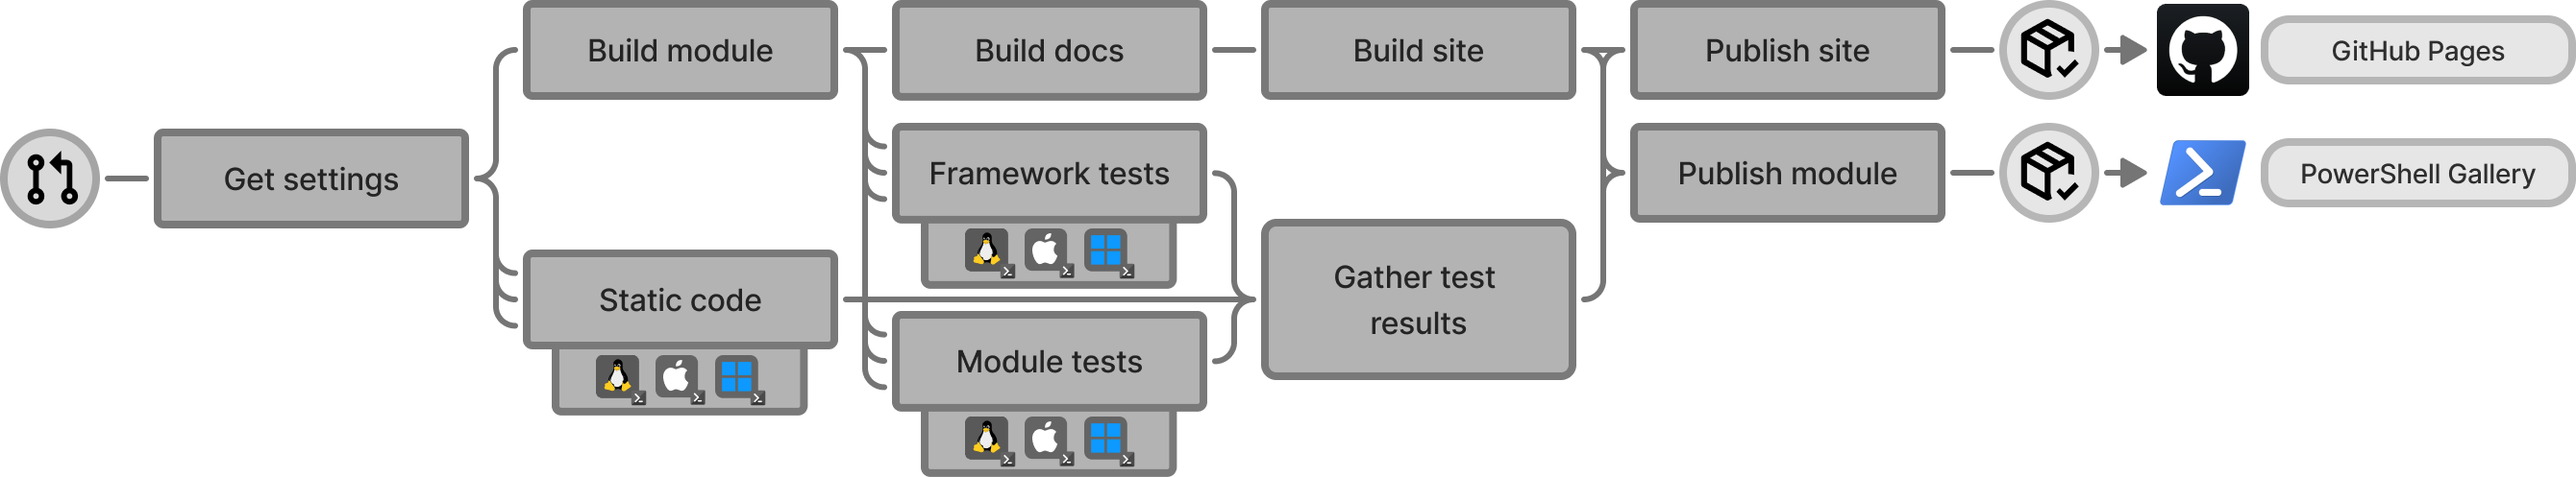
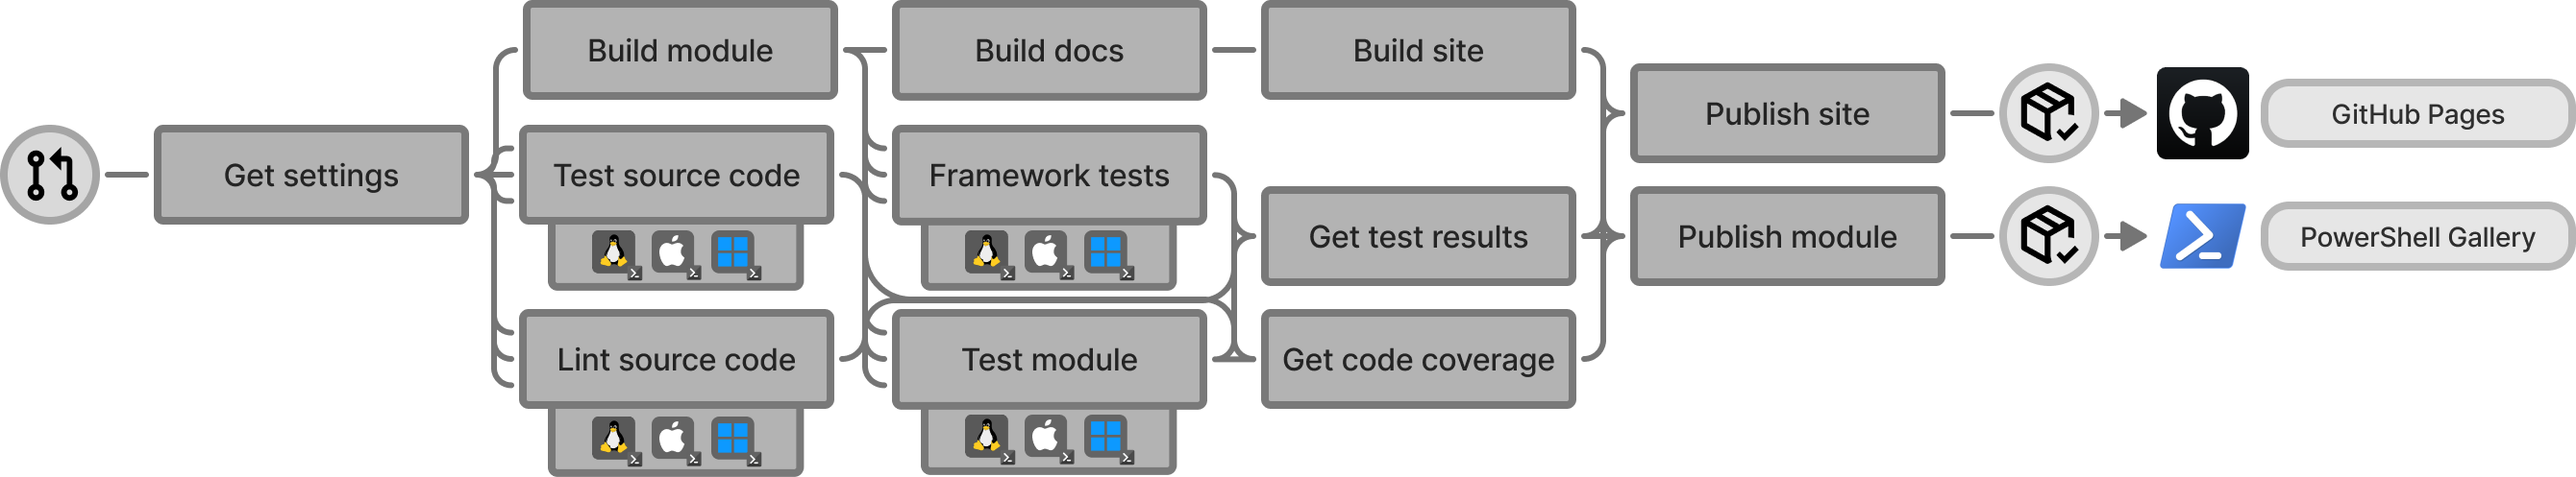
🔧 [Docs]: Update README for clarity and enhance workflow descriptions

diff --git a/README.md b/README.md
@@ -20,28 +20,39 @@ Depending on the labels in the pull requests, the workflow will result in differ
 
 ![Process diagram](./media/Process-PSModule.png)
 
-- [Get-Settings](./.github/workflows/Get-Settings.yml)
+- [Get settings](./.github/workflows/Get-Settings.yml)
   - Reads the settings file from a file in the module repository to configure the workflow.
   - Gathers tests and creates test configuration based on the settings and the tests available in the module repository.
   - This includes the selection of what OSes to run the tests on.
-- [Build-Module](./.github/workflows/Build-Module.yml)
+- [Build module](./.github/workflows/Build-Module.yml)
   - Compiles the module source code into a PowerShell module.
-- [Test-SourceCode](./.github/workflows/Test-SourceCode.yml)
-  - Tests and lints the source code in parallel (matrix) using [PSModule framework settings for style and standards for source code](https://github.com/PSModule/Test-PSModule?tab=readme-ov-file#sourcecode-tests) + [PSScriptAnalyzer rules](https://github.com/PSModule/Invoke-ScriptAnalyzer).
+- [Test source code](./.github/workflows/Test-SourceCode.yml)
+  - Tests the source code in parallel (matrix) using [PSModule framework settings for style and standards for source code](https://github.com/PSModule/Test-PSModule?tab=readme-ov-file#sourcecode-tests)
   - This produces a json based report that is used to later evaluate the results of the tests.
-- [Test-Module](./.github/workflows/Test-Module.yml)
+- [Lint source code](./.github/workflows/Lint-SourceCode.yml)
+  - Lints the source code in parallel (matrix) using [PSScriptAnalyzer rules](https://github.com/PSModule/Invoke-ScriptAnalyzer).
+  - This produces a json based report that is used to later evaluate the results of the linter.
+- [Framework test](./.github/workflows/Test-Module.yml)
   - Tests and lints the module in parallel (matrix) using [PSModule framework settings for style and standards foor modules](https://github.com/PSModule/Test-PSModule?tab=readme-ov-file#module-tests) + [PSScriptAnalyzer rules](https://github.com/PSModule/Invoke-ScriptAnalyzer).
   - This produces a json based report that is used to later evaluate the results of the tests.
-- [Test-ModuleLocal](./.github/workflows/Test-ModuleLocal.yml)
+- [Test module](./.github/workflows/Test-ModuleLocal.yml)
   - Import and tests the module in parallel (matrix) using Pester tests from the module repository.
   - This produces a json based report that is used to later evaluate the results of the tests.
-- [Build-Docs](./.github/workflows/Build-Docs.yml)
-  - Generates documentation and lints the documentation using [SuperLinter](https://github.com/super-linter/super-linter).
-- [Build-Site](./.github/workflows/Build-Site.yml)
-  - Generates a static site using [MkDocs](https://www.mkdocs.org/).
-- [Test-PSModule](https://github.com/PSModule/Test-PSModule/) - Tests the compiled module. This runs on 4 different environments to check compatibility.
-  - PowerShell LTS on Windows, Ubuntu and macOS.
-- [Publish-PSModule](https://github.com/PSModule/Publish-PSModule/) - Publishes the module to the PowerShell Gallery, docs to GitHub Pages, and creates a release on the GitHub repository.
+- [Get test results](./.github/workflows/Get-TestResults.yml)
+  - Gathers the test results from the previous steps and creates a summary of the results.
+  - If any tests have failed, the workflow will fail here.
+- [Get code coverage](./.github/workflows/Get-CodeCoverage.yml)
+  - Gathers the code coverage from the previous steps and creates a summary of the results.
+  - If the code coverage is below the target, the workflow will fail here.
+- [Build docs](./.github/workflows/Build-Docs.yml)
+  - Generates documentation and lints the documentation using [super-linter](https://github.com/super-linter/super-linter).
+- [Build site](./.github/workflows/Build-Site.yml)
+  - Generates a static site using [Material for MkDocs](https://squidfunk.github.io/mkdocs-material/).
+- [Publish site](./.github/workflows/Publish-Site.yml)
+  - Publishes the static site with the module documentationto GitHub Pages.
+- [Publish module](./.github/workflows/Publish-Module.yml)
+    - Publishes the module to the PowerShell Gallery.
+    - Creates a release on the GitHub repository.
 
 To use the workflow, create a new file in the `.github/workflows` directory of the module repository and add the following content.
 <details>
@@ -76,6 +87,63 @@ jobs:
 
 ```
 </details>
+
+## Configuration
+
+The workflow is configured using a settings file in the module repository.
+The file can be a JSON, YML or PSD1 file. By default it will look for `.github/PSModule.yml`.
+
+The following settings are available in the settings file:
+Here's a Markdown-formatted table describing your PowerShell object structure clearly and concisely:
+
+| Name                                      | Type            | Description                                                    | Default                        |
+| ----------------------------------------- | --------------- | -------------------------------------------------------------- | ------------------------------ |
+| `Name`                                    | `String`        | Name identifier for the settings                               | `null`                         |
+| **Test**                                  | `Object`        | Settings related to testing                                    |                                |
+| `Test.Skip`                               | `Boolean`       | Skip all tests                                                 | `false`                        |
+| `Test.Linux.Skip`                         | `Boolean`       | Skip tests on Linux                                            | `false`                        |
+| `Test.MacOS.Skip`                         | `Boolean`       | Skip tests on macOS                                            | `false`                        |
+| `Test.Windows.Skip`                       | `Boolean`       | Skip tests on Windows                                          | `false`                        |
+| **Test.SourceCode**                       | `Object`        | Settings for source code tests                                 |                                |
+| `Test.SourceCode.Skip`                    | `Boolean`       | Skip source code tests                                         | `false`                        |
+| `Test.SourceCode.Linux.Skip`              | `Boolean`       | Skip source code tests on Linux                                | `false`                        |
+| `Test.SourceCode.MacOS.Skip`              | `Boolean`       | Skip source code tests on macOS                                | `false`                        |
+| `Test.SourceCode.Windows.Skip`            | `Boolean`       | Skip source code tests on Windows                              | `false`                        |
+| **Test.PSModule**                         | `Object`        | Settings for PowerShell module tests                           |                                |
+| `Test.PSModule.Skip`                      | `Boolean`       | Skip PowerShell module tests                                   | `false`                        |
+| `Test.PSModule.Linux.Skip`                | `Boolean`       | Skip PS module tests on Linux                                  | `false`                        |
+| `Test.PSModule.MacOS.Skip`                | `Boolean`       | Skip PS module tests on macOS                                  | `false`                        |
+| `Test.PSModule.Windows.Skip`              | `Boolean`       | Skip PS module tests on Windows                                | `false`                        |
+| **Test.Module**                           | `Object`        | Settings for generic module tests                              |                                |
+| `Test.Module.Skip`                        | `Boolean`       | Skip generic module tests                                      | `false`                        |
+| `Test.Module.Linux.Skip`                  | `Boolean`       | Skip generic module tests on Linux                             | `false`                        |
+| `Test.Module.MacOS.Skip`                  | `Boolean`       | Skip generic module tests on macOS                             | `false`                        |
+| `Test.Module.Windows.Skip`                | `Boolean`       | Skip generic module tests on Windows                           | `false`                        |
+| **Test.TestResults**                      | `Object`        | Settings for test result publishing                            |                                |
+| `Test.TestResults.Skip`                   | `Boolean`       | Skip test result processing                                    | `false`                        |
+| **Test.CodeCoverage**                     | `Object`        | Settings for code coverage                                     |                                |
+| `Test.CodeCoverage.Skip`                  | `Boolean`       | Skip code coverage tests                                       | `false`                        |
+| `Test.CodeCoverage.PercentTarget`         | `Integer`       | Target code coverage percentage                                | `0`                            |
+| `Test.CodeCoverage.StepSummaryMode`       | `String`        | Step summary mode for code coverage reports                    | `'Missed, Files'`              |
+| **Build**                                 | `Object`        | Settings for build processes                                   |                                |
+| `Build.Skip`                              | `Boolean`       | Skip all build tasks                                           | `false`                        |
+| `Build.Module.Skip`                       | `Boolean`       | Skip module build                                              | `false`                        |
+| `Build.Docs.Skip`                         | `Boolean`       | Skip documentation build                                       | `false`                        |
+| `Build.Site.Skip`                         | `Boolean`       | Skip website build                                             | `false`                        |
+| **Publish.Module**                        | `Object`        | Settings for module publishing                                 |                                |
+| `Publish.Module.Skip`                     | `Boolean`       | Skip module publishing                                         | `false`                        |
+| `Publish.Module.AutoCleanup`              | `Boolean`       | Automatically cleanup old module versions                      | `true`                         |
+| `Publish.Module.AutoPatching`             | `Boolean`       | Automatically patch module version                             | `true`                         |
+| `Publish.Module.IncrementalPrerelease`    | `Boolean`       | Use incremental prerelease versioning                          | `true`                         |
+| `Publish.Module.DatePrereleaseFormat`     | `String`        | Format for date-based prerelease                               | `''` (empty string)            |
+| `Publish.Module.VersionPrefix`            | `String`        | Prefix for version tags                                        | `'v'`                          |
+| `Publish.Module.MajorLabels`              | `String`        | Labels indicating a major version bump                         | `'major, breaking'`            |
+| `Publish.Module.MinorLabels`              | `String`        | Labels indicating a minor version bump                         | `'minor, feature'`             |
+| `Publish.Module.PatchLabels`              | `String`        | Labels indicating a patch version bump                         | `'patch, fix'`                 |
+| `Publish.Module.IgnoreLabels`             | `String`        | Labels indicating no release                                   | `'NoRelease'`                  |
+
+This table clearly represents each nested property, type, brief description, and the default values you've specified in your provided PowerShell structure.
+
 
 ## Usage
 
